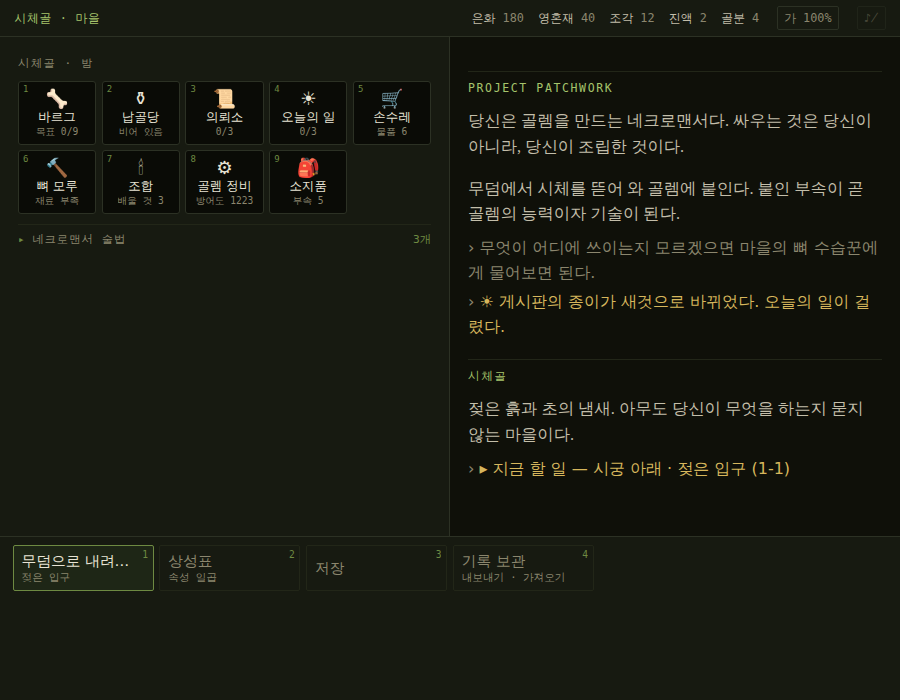
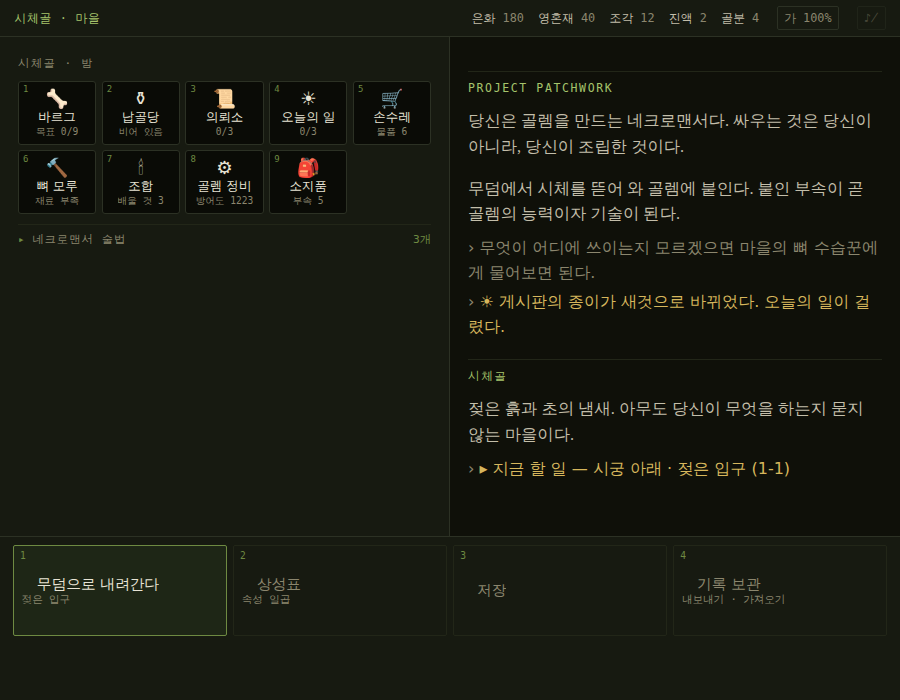
잘린 정보를 쪽지로 펼친다 · 고정 독이 만든 문제들 정리 (§12.1-A'·C)
측정(992×823)으로 드러난 것
- auto-fill이 빈 열 여섯 개를 만들어, 버튼이 넷뿐인데도 156px에 묶이고
  이름이 잘렸다. 폭의 2/3가 빈 채였다 → auto-fit으로 빈 열을 접는다.
- 독 164px 중 102px(62%)이 늘 비어 있었다. 로그에서 가져온 높이를
  아무것도 안 하고 버리고 있었다 → 줄 수에 맞춰 줄 높이를 늘려 채운다(2배까지).
- 숫자 배지가 이름 첫 줄 위에 얹혀 폭을 먹었다 → 배지는 왼쪽 위로,
  이름은 text-indent로 첫 줄만 비켜 간다.
- 이름을 두 줄로 풀자 칸 높이를 넘겨 곁말이 잘려 나갔다 → 몇 줄까지 풀지를
  칸 높이에서 계산한다(--nm-lines).
- 독이 넘쳐도 표시가 없어 넘친 줄이 소리 없이 가려졌다 → 그림자로 알린다.

쪽지 (§12.1-C)
- 마우스는 올리면 뜨고 누르는 것은 그대로 한 번.
- 손가락은 한 번 누르면 뜨고, 같은 것을 한 번 더 눌러야 실행된다.
  더 보여 줄 것이 없는 버튼은 예전처럼 한 번에 눌린다.
- 못 누르는 버튼도 눌러서 이유를 끝까지 읽을 수 있다.
- 부속 목록은 UI.partTip으로 등급·자리·내구도·요구 마력·능력치·기술·이상까지
  한 장에 펼친다. 상점·해체대·접합로·표본실·전리품·조립대·슬롯 교체에 붙였다.

Claude-Session: https://claude.ai/code/session_0132wSnXQUoCD5AhJLzL1ABP

diff --git a/src/ui.js b/src/ui.js
@@ -1,5 +1,5 @@
 /** 화면 그리기 헬퍼. 왼쪽=상태, 오른쪽=로그+선택지 (§12) */
-import { DB, SLOTS, SLOT_LABEL, partName, partSkills, assembleGolem, SKILL_CAP, josa,
+import { DB, SLOTS, SLOT_LABEL, partName, partSkills, partStats, assembleGolem, SKILL_CAP, josa,
          shieldMax, shieldNow, partOf } from './core.js';
 import { ROOM_ICON, ROOM_LABEL, minimapCells } from './dungeon.js';
 import * as CP from './campaign.js';
@@ -175,26 +175,137 @@ export function choices(list, opts = {}) {
   render(box, [...shown, ...nav, ...pinned]);
 }
 
+/**
+ * 부속 하나를 쪽지 한 장에 담는다 — 목록에서 잘려 안 보이는 것을 그대로 펼친다.
+ * 버튼의 `info`에 넣어 쓴다.
+ */
+export function partTip(part, extra = '') {
+  const def = DB.partsBy[part.defId] ?? {};
+  const st = typeof part.defId === 'string' ? partStats(part) : {};
+  const KIND = { head: '머리', body: '몸통', arm: '팔', leg: '다리' };
+  const SL = { atk: '공격', def: '방어', eva: '회피', spd: '속도', focus: '집중', hp: '체력' };
+  const stats = Object.entries(st).filter(([, v]) => v)
+    .map(([k, v]) => `<b>${SL[k] ?? k}</b> ${v > 0 ? '+' : ''}${v}`).join(' · ');
+  const sk = partSkills(part).map((id) => DB.skillsBy[id]).filter(Boolean);
+  const mod = part.mod ? DB.modifiersBy[part.mod] : null;
+  return `
+    <span class="tt">${partHTML(part)}</span>
+    <span class="tm">${KIND[def.slot] ?? ''} · ${RARITY_LABEL[def.rarity] ?? ''}`
+      + `${part.raw ? ' · 날것' : ''}${def.def_element ? ` · 방어 ${def.def_element}` : ''}</span>
+    <div class="trow">
+      <span>내구도 <b>${part.integrity}/${part.maxIntegrity}</b></span>
+      <span>요구 마력 <b>${DB.partsBy[part.defId]?.mana ?? '—'}</b></span>
+      ${part.upgrade ? `<span>강화 <b>+${part.upgrade}</b></span>` : ''}
+      ${part.refined ? `<span>정제 <b>+${part.refined}</b></span>` : ''}
+    </div>
+    ${stats ? `<div class="trow">${stats}</div>` : '<div class="trow">능력치 보정 없음</div>'}
+    ${sk.length ? `<div class="tsk">기술 — ${sk.map((x) =>
+        `${esc(x.name)}(${x.element}${x.power ? ` ${x.power}` : ''})`).join(', ')}</div>` : ''}
+    ${mod ? `<div class="tsk">이상 — ${esc(mod.prefix)}</div>` : ''}
+    ${part.raw ? '<div class="tsk" style="color:var(--danger)">날것 — 성능 60%, 기술 25% 불발, 내구도 2배 소모</div>' : ''}
+    ${extra}`;
+}
+
+/* ── 쪽지 ─────────────────────────────────────
+   버튼 폭이 좁아 이름과 곁말이 잘린다. 잘린 것을 볼 방법이 없으면
+   "무엇이 붙어 있는지 모른 채" 고르게 된다.
+   · 마우스: 올리면 뜬다 — 누르는 것은 그대로 한 번이다.
+   · 손가락: 한 번 누르면 뜨고, **같은 것을 한 번 더 눌러야 실행된다.**
+   더 보여 줄 것이 없는 버튼(다 보이고 info도 없는 것)은 예전처럼 한 번에 눌린다. */
+let lastTouch = false;
+let armedBtn = null;
+document.addEventListener('pointerdown', (e) => { lastTouch = e.pointerType === 'touch'; }, true);
+
+const tipEl = () => $('tip');
+
+export function hideTip() {
+  const t = tipEl();
+  if (t) t.hidden = true;
+  if (armedBtn) { armedBtn.classList.remove('armed'); armedBtn = null; }
+}
+
+function showTip(html, anchor) {
+  const t = tipEl();
+  if (!t) return;
+  t.innerHTML = josa(html);
+  t.hidden = false;
+  // 버튼 위에 띄우고, 화면 밖으로 나가면 안쪽으로 당긴다
+  const r = anchor.getBoundingClientRect();
+  const tr = t.getBoundingClientRect();
+  const pad = 8;
+  let left = r.left + r.width / 2 - tr.width / 2;
+  left = Math.max(pad, Math.min(left, window.innerWidth - tr.width - pad));
+  let top = r.top - tr.height - 6;
+  if (top < pad) top = Math.min(r.bottom + 6, window.innerHeight - tr.height - pad);
+  t.style.left = `${Math.round(left)}px`;
+  t.style.top = `${Math.round(top)}px`;
+}
+
+/** 이 버튼이 더 보여 줄 것이 있는가 — 글자가 잘렸거나 info가 붙어 있거나 */
+function hasMore(btn, c) {
+  if (c.info) return true;
+  for (const el of btn.querySelectorAll('.nm, .meta')) {
+    if (el.scrollWidth > el.clientWidth + 1 || el.scrollHeight > el.clientHeight + 1) return true;
+  }
+  return false;
+}
+
+/** 쪽지에 넣을 기본 내용 — 버튼에 있던 것을 그대로, 잘리지 않게 */
+const plainTip = (c) => `<span class="tt">${c.label}</span>`
+  + (c.meta ? `<span class="tm">${c.meta}</span>` : '');
+
+/* 바깥을 누르면 쪽지를 접는다 */
+document.addEventListener('pointerdown', (e) => {
+  if (armedBtn && !armedBtn.contains(e.target)) hideTip();
+}, true);
+window.addEventListener('resize', hideTip);
+
 function render(box, list) {
   box.replaceChildren();
   keyHandlers = [];
+  hideTip();
   for (const fn of onChoicesRendered) fn();
   let n = 0;
   for (const c of list) {
     if (!c) continue;
     const b = document.createElement('button');
-    b.className = `btn ${c.cls ?? ''}`;
+    b.className = `btn ${c.cls ?? ''}${c.meta ? '' : ' tall'}`;
     b.disabled = Boolean(c.disabled);
     let k = '';
     if (!c.disabled && !c.nokey && n < 9) { n++; k = String(n); keyHandlers[n] = c.on; }
     b.innerHTML = josa(`${k ? `<span class="k">${k}</span>` : ''}<span class="nm">${c.label}</span>`
       + (c.meta ? `<span class="meta">${c.meta}</span>` : ''));
+
+    const tip = () => (c.info ? c.info : plainTip(c))
+      + (lastTouch ? '<span class="thint">한 번 더 누르면 고른다</span>' : '');
+
+    // 못 누르는 버튼도 이유를 끝까지 읽을 수 있어야 한다 — 쪽지는 붙여 준다
+    b.addEventListener('pointerenter', (e) => {
+      if (e.pointerType === 'touch') return;
+      if (hasMore(b, c)) showTip(tip(), b);
+    });
+    b.addEventListener('pointerleave', () => { if (!armedBtn) hideTip(); });
+
     // 인자를 넘기지 않는다. 그대로 넘기면 클릭 이벤트가 첫 인자로 들어가
     // golemScreen(back) 같은 기본 인자를 덮어써 버린다.
     if (!c.disabled && c.on) {
-      b.addEventListener('click', () => { soundUnlock(); SFX.tap(); c.on(); });
+      b.addEventListener('click', () => {
+        // 손가락으로 처음 누른 것이고 더 보여 줄 게 있으면, 이번 누름은 '보기'다
+        if (lastTouch && armedBtn !== b && hasMore(b, c)) {
+          hideTip();
+          armedBtn = b;
+          b.classList.add('armed');
+          showTip(tip(), b);
+          return;
+        }
+        hideTip();
+        soundUnlock(); SFX.tap(); c.on();
+      });
+    } else if (c.disabled) {
+      b.addEventListener('click', () => { if (hasMore(b, c)) showTip(tip(), b); });
     }
-    // 미리보기 — 마우스는 올리면, 손가락은 길게 누르면 뜬다
+
+    // 미리보기 — 마우스는 올리면 전후 비교가 왼쪽에 뜬다
     if (!c.disabled && c.hover) {
       b.addEventListener('pointerenter', () => c.hover());
       b.addEventListener('focus', () => c.hover());
@@ -205,6 +316,43 @@ function render(box, list) {
     }
     box.append(b);
   }
+  fillDock(box);
+}
+
+/**
+ * 버튼이 몇 개뿐이어도 독의 높이는 고정이다. 그대로 두면 아래가 텅 빈다 —
+ * 실측으로 164px 중 102px이 비었다. 그 높이를 버튼에 돌려주면
+ * 이름이 두 줄까지 펴져 잘리는 일이 줄어든다. 대신 버튼이 우스꽝스럽게
+ * 커지지 않도록 기본 높이의 두 배까지만 늘린다.
+ */
+function fillDock(box) {
+  box.style.gridAutoRows = '';
+  const btns = box.querySelectorAll('.btn');
+  if (!btns.length) return;
+  const cs = getComputedStyle(box);
+  const cols = cs.gridTemplateColumns.split(' ').filter(Boolean).length || 1;
+  const rows = Math.ceil(btns.length / cols);
+  const gap = parseFloat(cs.rowGap) || 0;
+  const inner = box.clientHeight - parseFloat(cs.paddingTop) - parseFloat(cs.paddingBottom);
+  const base = parseFloat(cs.gridAutoRows) || btns[0].getBoundingClientRect().height;
+  const fit = (inner - (rows - 1) * gap) / rows;
+  const rowH = fit > base ? Math.floor(Math.min(fit, base * 2)) : base;
+  if (rowH !== base) box.style.gridAutoRows = `${rowH}px`;
+
+  /* 이름을 몇 줄까지 풀지는 **칸의 높이가 정한다.**
+     무조건 두 줄로 두면 칸이 낮을 때 곁말이 잘려 나가 오히려 못 읽게 된다. */
+  const b0 = btns[0];
+  const bs = getComputedStyle(b0);
+  const pad = parseFloat(bs.paddingTop) + parseFloat(bs.paddingBottom) + 2;
+  const nm = b0.querySelector('.nm');
+  const lineH = nm ? parseFloat(getComputedStyle(nm).lineHeight) : 16;
+  const metaEl = [...btns].map((b) => b.querySelector('.meta')).find(Boolean);
+  const metaH = metaEl ? parseFloat(getComputedStyle(metaEl).lineHeight) : 0;
+  const lines = Math.max(1, Math.min(3, Math.floor((rowH - pad - metaH) / lineH)));
+  box.style.setProperty('--nm-lines', String(lines));
+
+  // 독이 넘치면 그 사실이 보여야 한다 — 높이가 고정이라 넘친 줄은 소리 없이 가려진다
+  box.classList.toggle('more', box.scrollHeight > box.clientHeight + 1);
 }
 
 document.addEventListener('keydown', (e) => {

diff --git a/index.html b/index.html
@@ -195,10 +195,18 @@ button{font:inherit;color:inherit;background:none;border:none;cursor:pointer}
   border-top:1px solid var(--line);background:var(--panel);
   padding:.5rem clamp(6px,1.4vw,14px);
   padding-bottom:max(.5rem, env(safe-area-inset-bottom));
-  display:grid;grid-template-columns:repeat(auto-fill,minmax(8.5rem,1fr));
+  /*
+   * auto-FIT이다. auto-fill이면 버튼이 넷뿐인데도 빈 열 여섯 개가 자리를 차지해
+   * 버튼이 156px에 묶이고 이름이 잘렸다. auto-fit은 빈 열을 접어 남은 버튼이 넓어진다.
+   */
+  display:grid;grid-template-columns:repeat(auto-fit,minmax(9.5rem,1fr));
   grid-auto-rows:var(--btn-h);gap:var(--dock-gap);align-content:start;
   height:var(--dock-h);overflow-y:auto;overscroll-behavior:contain;
 }
+/* 넘친 줄이 있다는 표시 — 독은 높이가 고정이라 그냥 두면 소리 없이 가려진다.
+   글자를 가리지 않도록 그림자로만 알린다. */
+#choices.more{box-shadow:inset 0 -1.2rem 1rem -1rem var(--sunken)}
+
 /* 격자를 가로지르는 것들 — 연출 대기 표시와 글상자 */
 #choices .waiting,#choices .textbox{grid-column:1/-1}
 #choices .waiting{grid-row:span 1}
@@ -371,6 +379,31 @@ button{font:inherit;color:inherit;background:none;border:none;cursor:pointer}
   #app{--dp-w:calc(1.9rem * 3 + .3rem)}
 }
 
+/* ── 쪽지(툴팁) ─────────────────────────────
+   버튼 폭에 다 안 들어간 것을 펼쳐 보여 준다.
+   마우스는 올리면, 손가락은 한 번 누르면 뜬다(두 번째 눌러야 실행된다). */
+#tip[hidden]{display:none}
+#tip{
+  position:fixed;z-index:40;max-width:min(24rem,calc(100vw - 20px));
+  background:var(--panel);border:1px solid var(--accent-dim);border-radius:3px;
+  padding:.5rem .6rem;box-shadow:0 8px 28px rgba(0,0,0,.55);
+  font-size:.82rem;line-height:1.5;color:var(--ink);pointer-events:none;
+  animation:tip-in .12s ease-out;
+}
+@keyframes tip-in{from{opacity:0;transform:translateY(3px)}to{opacity:1;transform:none}}
+@media (prefers-reduced-motion:reduce){#tip{animation:none}}
+#tip .tt{font-weight:500;margin-bottom:.15rem;display:block}
+#tip .tm{font-family:var(--mono);font-size:.72rem;color:var(--muted);display:block}
+#tip .trow{display:flex;gap:.5rem;flex-wrap:wrap;font-size:.76rem;color:var(--ink-soft);margin-top:.2rem}
+#tip .trow b{color:var(--ink);font-weight:500}
+#tip .tsk{font-size:.76rem;color:var(--accent);margin-top:.2rem}
+#tip .thint{
+  display:block;margin-top:.35rem;padding-top:.3rem;border-top:1px solid var(--line-soft);
+  font-family:var(--mono);font-size:.66rem;color:var(--muted);
+}
+/* 한 번 눌러 쪽지를 띄운 버튼 — 다음 누름이 실행이다 */
+.btn.armed{border-color:var(--accent);background:var(--accent-bg)}
+
 /* 글상자 — 세이브 내보내기·가져오기 */
 .textbox{display:flex;flex-direction:column;gap:.4rem;width:100%}
 .tb-title{font-family:var(--mono);font-size:.72rem;letter-spacing:.1em;color:var(--muted);margin:0}
@@ -395,6 +428,7 @@ button{font:inherit;color:inherit;background:none;border:none;cursor:pointer}
   border:1px solid var(--line);background:var(--panel-2);
   padding:.25rem .5rem;border-radius:2px;height:100%;min-width:0;
   display:flex;flex-direction:column;align-items:flex-start;justify-content:center;gap:0;
+  max-width:28rem;   /* 버튼 하나뿐일 때 화면 끝까지 늘어나지 않게 */
   transition:border-color .12s,background .12s;
   -webkit-tap-highlight-color:transparent;touch-action:manipulation;
 }
@@ -402,11 +436,18 @@ button{font:inherit;color:inherit;background:none;border:none;cursor:pointer}
 .btn:hover:not(:disabled){border-color:var(--accent-dim);background:var(--accent-bg)}
 .btn:disabled{opacity:.36;cursor:not-allowed}
 .btn .k{
-  position:absolute;top:.12rem;right:.3rem;
+  position:absolute;top:.18rem;left:.4rem;
   font-family:var(--mono);font-size:.6rem;color:var(--accent-dim);
 }
-.btn .nm{font-weight:400;font-size:.92rem;line-height:1.25;padding-right:.7rem}
+/* 숫자 배지는 첫 줄만 비켜 가면 된다 — text-indent는 첫 줄에만 걸린다 */
+.btn .nm{
+  font-weight:400;font-size:.92rem;line-height:1.25;text-indent:.95rem;
+  white-space:normal;overflow:hidden;
+  display:-webkit-box;-webkit-box-orient:vertical;-webkit-line-clamp:var(--nm-lines,1);
+}
 .btn .meta{font-family:var(--mono);font-size:.66rem;color:var(--muted);line-height:1.2}
+/* 곁말이 없는 버튼은 그 자리까지 이름이 쓴다 */
+.btn.tall .nm{-webkit-line-clamp:calc(var(--nm-lines,1) + 1)}
 .btn.wide{width:100%}
 .btn.ghost{background:none;border-color:var(--line-soft);color:var(--muted)}
 .btn.ghost:hover:not(:disabled){color:var(--ink);border-color:var(--line)}
@@ -555,6 +596,7 @@ hr.sep{border:0;border-top:1px solid var(--line-soft);margin:.9rem 0}
 </style>
 </head>
 <body>
+<div id="tip" hidden></div>
 <div id="app">
   <div id="topbar"></div>
   <div id="dpad" hidden aria-label="이동">

diff --git a/src/main.js b/src/main.js
@@ -1032,6 +1032,7 @@ function dissectScreen() {
         // 누르면 상세 화면에서 무엇인지 확인한 뒤에 올린다
         label: UI.partHTML(p),
         meta: `${KIND_LABEL[def.slot]} · ${p.integrity}/${p.maxIntegrity} · 조각 ${spec.scrap[0]}~${spec.scrap[1]}`,
+        info: UI.partTip(p),
         disabled: free <= 0,
         on: () => partDetailScreen(p, dissectScreen, {
           title: '납골당 · 해체 확인',
@@ -1082,7 +1083,7 @@ function vaultScreen() {
   const spare = S.inventory.filter((p) => !equipped.has(p.uid));
   UI.choices([
     ...o.vault.parts.map((p) => ({
-      label: `${partName(p)} 꺼내기`, meta: `${p.integrity}/${p.maxIntegrity}`, on: () => {
+      label: `${partName(p)} 꺼내기`, meta: `${p.integrity}/${p.maxIntegrity}`, info: UI.partTip(p), on: () => {
         o.vault.parts = o.vault.parts.filter((x) => x.uid !== p.uid);
         S.inventory.push(p);
         UI.logLine(`${partName(p)}을(를) 꺼냈다.`, 'good');
@@ -1090,7 +1091,7 @@ function vaultScreen() {
       },
     })),
     ...spare.map((p) => ({
-      label: `${partName(p)} 보관`, cls: 'ghost',
+      label: `${partName(p)} 보관`, cls: 'ghost', info: UI.partTip(p),
       disabled: o.vault.parts.length >= o.vault.capacity,
       on: () => {
         S.inventory = S.inventory.filter((x) => x.uid !== p.uid);
@@ -1328,6 +1329,7 @@ function workSlotScreen(id, slot) {
       return {
         label: UI.partHTML(p),
         meta: `공${st.atk} 방${st.def} 속${st.spd} 집${st.focus} · ${p.integrity}/${p.maxIntegrity}`,
+        info: UI.partTip(p),
         on: () => {
           detach();
           S.inventory = S.inventory.filter((x) => x.uid !== p.uid);
@@ -1508,6 +1510,7 @@ function recipeScreen(key, first = null) {
         // 이름이 잘려도 자리·내구도로 구분되고, 누르면 상세를 확인한 뒤에 건다
         label: UI.partHTML(p),
         meta: `${KIND_LABEL[def.slot]} · ${p.integrity}/${p.maxIntegrity}${p.raw ? ' · 날것' : ''}`,
+        info: UI.partTip(p),
         on: () => partDetailScreen(p, () => recipeScreen(key, first), {
           title: `접합로 · ${r.name}`,
           ask: pick ? `${partName(p)}을(를) 바탕으로 삼을까?` : `${partName(p)}에 ${r.name}을(를) 걸까?`,
@@ -1807,7 +1810,8 @@ function shopScreen() {
   }
   for (const p of stock.parts) {
     const price = partPrice(p);
-    list.push({ label: `${partName(p)} 구입`, meta: money(price), disabled: S.silver < price, on: () => {
+    list.push({ label: `${partName(p)} 구입`, meta: money(price), info: UI.partTip(p),
+      disabled: S.silver < price, on: () => {
       S.silver -= price;
       S.inventory.push(p);
       S.town.stock.parts = S.town.stock.parts.filter((x) => x !== p);
@@ -1854,7 +1858,7 @@ function sellScreen() {
   UI.logLine('무엇을 넘길까.', 'dim');
   UI.choices([
     ...sellable.map((p) => ({
-      label: `${partName(p)} 판매`, meta: money(sellPrice(p)), on: () => {
+      label: `${partName(p)} 판매`, meta: money(sellPrice(p)), info: UI.partTip(p), on: () => {
         S.silver += sellPrice(p);
         S.inventory = S.inventory.filter((x) => x.uid !== p.uid);
         UI.logLine(`${partName(p)}을(를) 넘겼다. (+${sellPrice(p)})`, 'good');
@@ -2138,6 +2142,9 @@ function slotScreen(slot, back, canEdit = true) {
       return {
         label: UI.partHTML(p),
         disabled: short > 0,
+        info: UI.partTip(p, short > 0
+          ? `<div class="tsk" style="color:var(--danger)">마력 ${after}/${before.manaMax} — ${short} 모자라다</div>`
+          : `<div class="tsk">${diffText(slot, p)}</div>`),
         meta: short > 0
           ? `마력 ${after}/${before.manaMax} — ${short} 모자라다`
           : `마력 ${partMana(p)} · ${p.raw ? '날것 · ' : ''}${diffText(slot, p)} · ${p.integrity}/${p.maxIntegrity}`,
@@ -2994,6 +3001,7 @@ function winBattle() {
     ...loot.map((p) => ({
       label: `${partName(p)} 수습`,
       meta: `${KIND_LABEL[DB.partsBy[p.defId].slot]} · 날것 · 내구 ${p.integrity}`,
+      info: UI.partTip(p),
       on: () => {
         S.inventory.push(p);
         UI.logLine(`${partName(p)}을(를) 챙겼다.`, 'good');

diff --git a/docs/GDD.md b/docs/GDD.md
@@ -1511,6 +1511,37 @@ state.lastSeenAt = now;
 - 독의 높이는 줄 수로 정해진다(`--dock-rows`: 기본 3, 세로 4, 가로 저해상도 3). 넘치면 **독 안에서 스크롤**한다.
 - 긴 목록은 여전히 쪽 나누기(`paged: true`)로 자른다. 독이 커지는 일은 없다.
 
+#### 12.1-A' 고정된 독이 만든 문제와 그 처리
+
+높이를 고정하고 나니 **폭과 높이가 남는데도 글자가 잘리는** 일이 생겼다. 원인은 셋이었다.
+
+| 증상 | 원인 | 처리 |
+|---|---|---|
+| 버튼이 넷뿐인데 이름이 잘린다 | `auto-fill`이 빈 열 여섯 개를 만들어 버튼이 156px에 묶였다 | **`auto-fit`** — 빈 열을 접어 남은 버튼이 넓어진다 |
+| 독 아래가 늘 비어 있다 | 164px 중 **102px(62%)** 이 빈 채로 버려졌다 | 줄 수에 맞춰 **줄 높이를 늘려 채운다** (기본의 2배까지) |
+| 숫자 배지가 이름을 밀어낸다 | 배지가 오른쪽 위에 얹혀 첫 줄의 폭을 먹었다 | 배지는 왼쪽 위로, 이름은 **`text-indent`로 첫 줄만** 비켜 간다 |
+
+이름을 몇 줄까지 풀지는 **칸의 높이가 정한다**(`--nm-lines`). 무조건 두 줄로 두면
+칸이 낮을 때 곁말이 칸 밖으로 밀려 잘려 나간다 — 읽으라고 푼 것이 오히려 못 읽게 만든다.
+
+독이 넘치면 그림자로 알린다. 높이가 고정이라 넘친 줄은 **소리 없이** 가려지기 때문이다.
+
+#### 12.1-C 잘린 것은 쪽지로 펼친다
+
+버튼 폭에는 한계가 있다. 「썩어가는 무덤파괴자의 쇠망치팔」은 어떻게 해도 한 줄에 안 들어간다.
+그래서 **자르되, 펼쳐 볼 수단을 같이 둔다.**
+
+| 입력 | 동작 |
+|---|---|
+| 마우스를 올린다 | 쪽지가 뜬다. 누르는 것은 그대로 **한 번**이다 |
+| 손가락으로 한 번 누른다 | 쪽지가 뜨고 그 버튼이 「고름」 상태가 된다 — **실행되지 않는다** |
+| 같은 것을 한 번 더 누른다 | 그때 실행된다 |
+
+- **더 보여 줄 것이 없는 버튼은 예전처럼 한 번에 눌린다.** 잘린 글자도 `info`도 없으면 두 번 누를 이유가 없다.
+- 못 누르는 버튼도 눌러서 쪽지를 볼 수 있다. 이유(`조각 7 모자라다`)가 잘렸을 때 그것을 읽을 유일한 길이다.
+- 부속 목록은 `info: UI.partTip(part)`로 **등급·자리·내구도·요구 마력·능력치·기술·이상**까지 한 장에 펼친다.
+  쪽지가 없으면 버튼에 있던 이름과 곁말을 잘리지 않게 그대로 보여 준다.
+
 #### 12.1-B 요약하고 감춘다
 
 왼쪽 패널이 한 번에 쏟아내는 정보가 너무 많으면 아무것도 안 읽힌다. 세 가지 규칙을 둔다.
